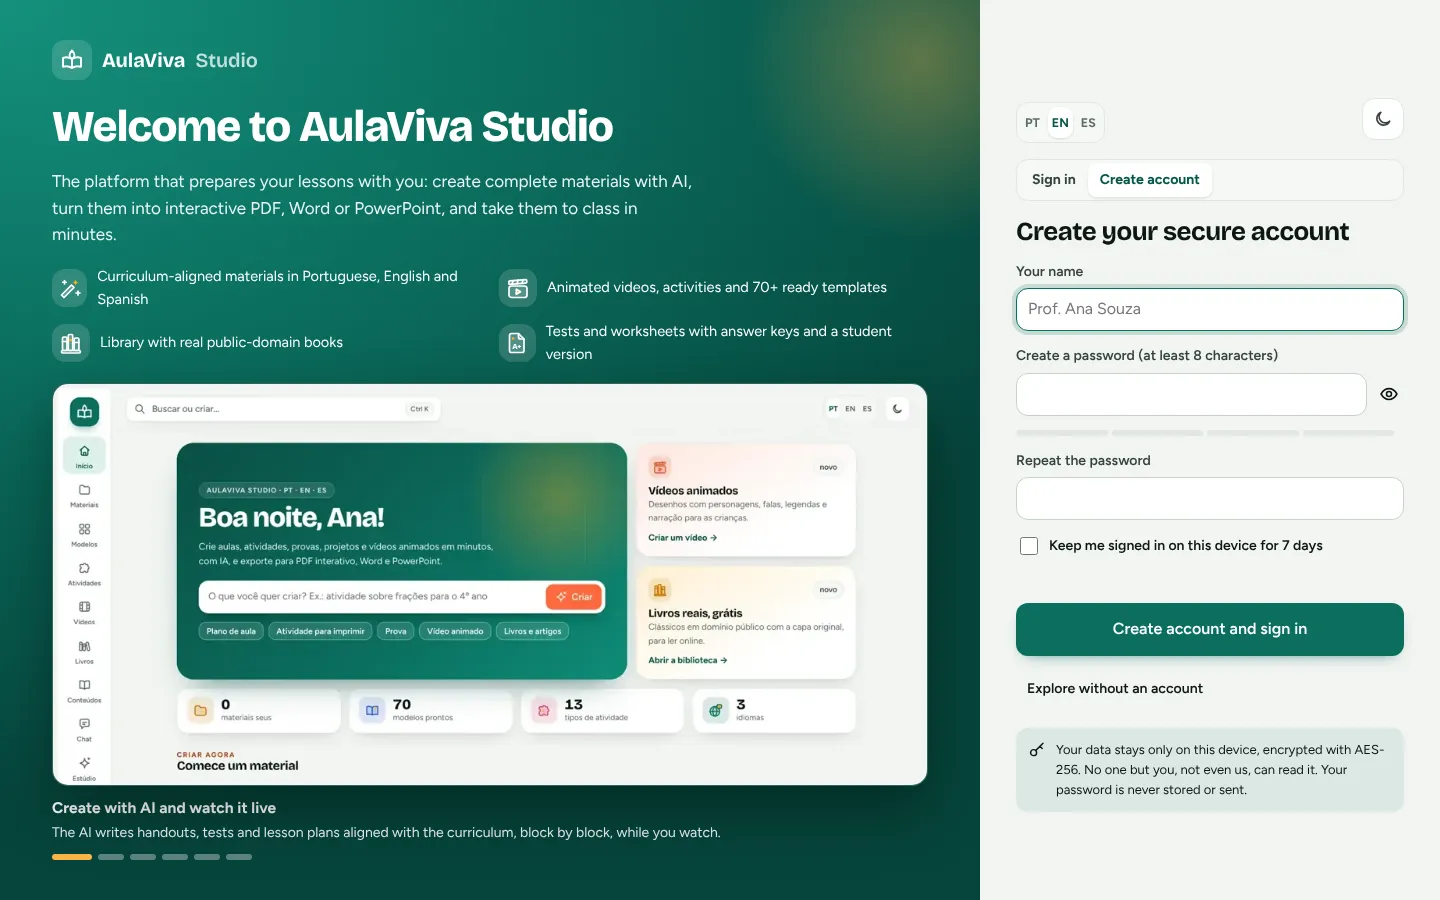
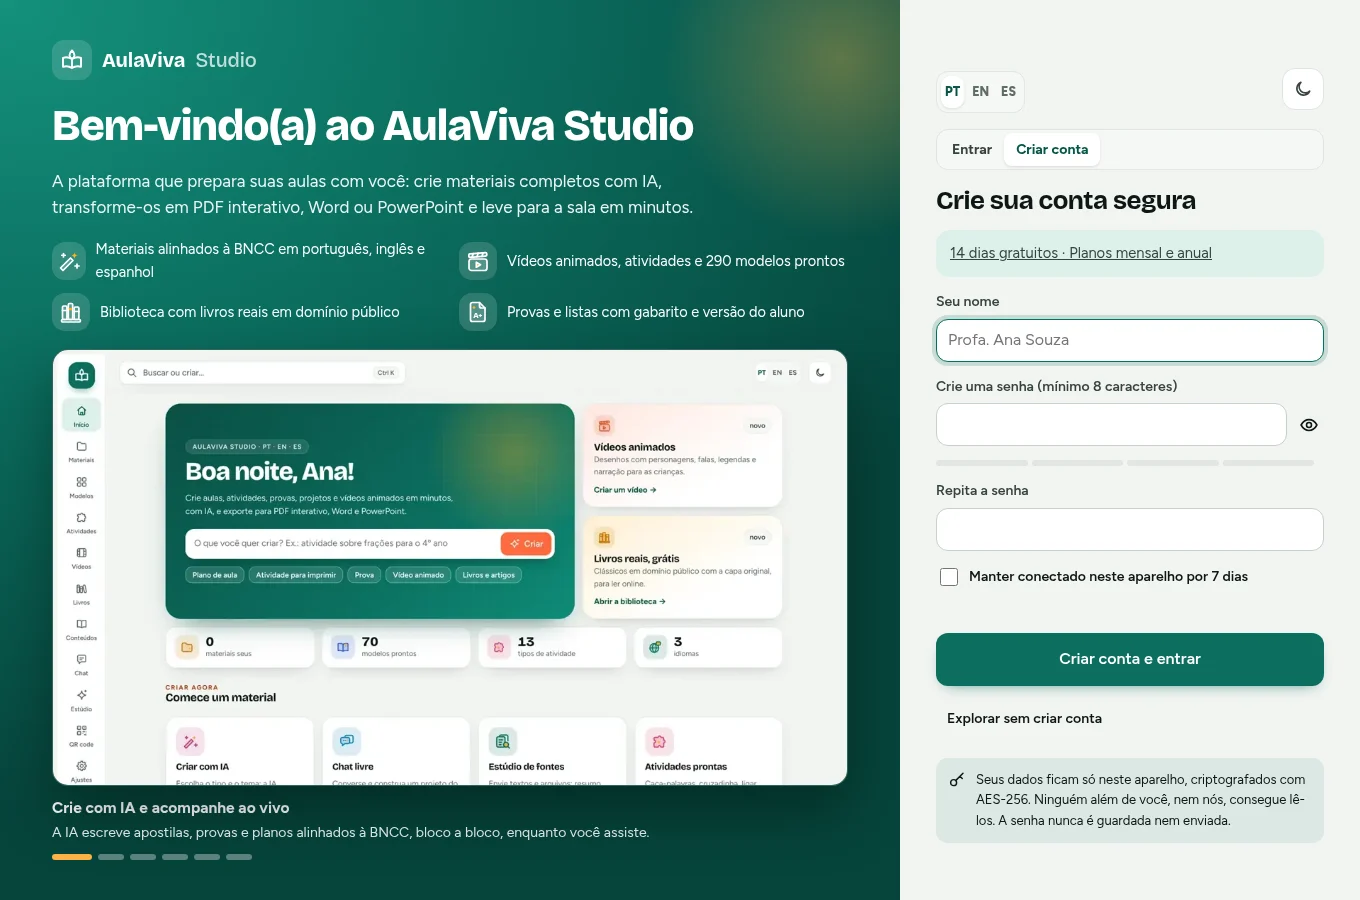
Publica o plano de 14 dias gratuitos com opções mensal e anual

Changed region(s): [[0.0309, 0.0, 0.9882, 1.0], [0.0309, 0.1244, 0.525, 0.1556], [0.0309, 0.0622, 0.1853, 0.0933]]

diff --git a/src/i18n-extra.js b/src/i18n-extra.js
@@ -1,5 +1,7 @@
 (function (AV) {
   AV.DICT = AV.DICT || { en: {}, es: {} };
+  AV.DICT.en["14 dias gratuitos · Planos mensal e anual"] = "14 days free · Monthly and annual plans";
+  AV.DICT.es["14 dias gratuitos · Planos mensal e anual"] = "14 días gratis · Planes mensual y anual";
   Object.assign(AV.DICT.en, {"Aparência": "Appearance", "Papel": "Paper", "Marfim": "Ivory", "Branco": "White", "Sépia": "Sepia", "Noturno": "Night", "Fonte": "Font", "Serifada": "Serif", "Sem serifa": "Sans serif", "Tamanho": "Size", "Marcar página": "Bookmark page", "Grifar trecho": "Highlight selection", "Marcações": "Bookmarks and highlights", "Selecione um trecho do texto para grifar.": "Select a passage to highlight.", "Edição": "Edition", "Página original": "Original page", "Transcrição": "Transcription", "Anterior": "Previous", "Próxima": "Next", "Ir à página": "Go to page", "Nenhuma marcação neste livro.": "No bookmarks or highlights in this book.", "Carregando página…": "Loading page…"});
   Object.assign(AV.DICT.es, {"Aparência": "Apariencia", "Papel": "Papel", "Marfim": "Marfil", "Branco": "Blanco", "Sépia": "Sepia", "Noturno": "Nocturno", "Fonte": "Fuente", "Serifada": "Con serifas", "Sem serifa": "Sin serifas", "Tamanho": "Tamaño", "Marcar página": "Marcar página", "Grifar trecho": "Resaltar selección", "Marcações": "Marcadores y resaltados", "Selecione um trecho do texto para grifar.": "Selecciona un fragmento para resaltarlo.", "Edição": "Edición", "Página original": "Página original", "Transcrição": "Transcripción", "Anterior": "Anterior", "Próxima": "Siguiente", "Ir à página": "Ir a la página", "Nenhuma marcação neste livro.": "Aún no hay marcas en este libro.", "Carregando página…": "Cargando página…"});
   Object.assign(AV.DICT.en, {"Ler na plataforma":"Read here","Carregando livro…":"Loading book…","Não foi possível carregar o livro.":"Could not load the book.","Tentar novamente":"Try again","Escolha um livro para ler aqui na biblioteca.":"Choose a book to read here in the library."});

diff --git a/src/planos.html b/src/planos.html
@@ -1,0 +1,4 @@
+<!doctype html>
+<html lang="pt-BR"><meta charset="utf-8"><meta name="viewport" content="width=device-width,initial-scale=1"><title>Planos · AulaViva Studio</title>
+<style>*{box-sizing:border-box}body{margin:0;background:#f5f3eb;color:#172d28;font:1.1rem/1.6 system-ui,sans-serif}main{max-width:760px;margin:auto;padding:clamp(26px,7vw,80px) 24px}h1{font:600 clamp(2.6rem,8vw,4.7rem)/1.05 Georgia,serif;margin:1em 0 .35em}section{display:grid;grid-template-columns:repeat(auto-fit,minmax(210px,1fr));gap:14px;margin:30px 0}article{padding:20px;background:white;border:1px solid #d4dcd2;border-radius:12px}h2,article p{margin:0}a{color:#175849}a:last-child{font-weight:bold}</style>
+<main><a href="./">AulaViva Studio</a><h1>14 dias gratuitos</h1><p>Experimente a plataforma por 14 dias. Depois desse período, a assinatura poderá ser mensal ou anual.</p><section aria-label="Opções de assinatura"><article><h2>Mensal</h2><p>Um mês de acesso por período.</p></article><article><h2>Anual</h2><p>Um ano de acesso por período.</p></article></section><a href="./">Acessar a plataforma →</a></main></html>

diff --git a/src/views.js b/src/views.js
@@ -46,7 +46,7 @@
       main.appendChild(h("div", { class: "wrap" },
         h("div", { class: "bento" },
         h("section", { class: "hero" },
-          h("div", null, h("div", { class: "eyebrow" }, "AulaViva Studio · PT · EN · ES"), h("h1", null, AV.t(hello()) + (p.name ? ", " + p.name.split(" ")[0] : "") + "!"),
+          h("div", null, h("a", { class: "eyebrow", href: "planos.html" }, AV.t("14 dias gratuitos · Planos mensal e anual")), h("h1", null, AV.t(hello()) + (p.name ? ", " + p.name.split(" ")[0] : "") + "!"),
             h("p", null, "Crie aulas, atividades, provas, projetos e vídeos animados em minutos, com IA, e exporte para PDF interativo, Word e PowerPoint."),
             h("div", { class: "hero-search" }, q, h("button", { class: "btn pri", onclick: go }, AV.icon("sparkle"), "Criar")),
             h("div", { class: "hero-chips" },

diff --git a/src/auth.js b/src/auth.js
@@ -81,6 +81,7 @@
       } else if (mode === "signup") {
         add(form, h("h2", null, AV.t(exists ? "Criar uma nova conta" : "Crie sua conta segura")),
           exists ? h("p", { class: "note" }, AV.t("Já existe uma conta neste aparelho. Criar outra apaga a conta atual e todos os dados dela.")) : null,
+          h("a", { href: "planos.html", class: "note info" }, AV.t("14 dias gratuitos · Planos mensal e anual")),
           field("Seu nome", name), field("Crie uma senha (mínimo 8 caracteres)", pw, eye), h("div", { class: "row", style: { gap: "10px" } }, meter, meterTxt), field("Repita a senha", pw2),
           h("label", { class: "check" }, remember, AV.t("Manter conectado neste aparelho por 7 dias")), msg, submit);
         submit.textContent = AV.t("Criar conta e entrar");

diff --git a/README.md b/README.md
@@ -11,6 +11,12 @@ Para professores da educação básica, em português, inglês e espanhol.
 
 </div>
 
+## Planos de acesso
+
+A distribuição prevê 14 dias gratuitos, seguidos de assinatura mensal ou anual. [Ver planos](https://aulavivastudio.vercel.app/planos.html)
+
+![Planos de acesso](docs/screenshots/planos.webp)
+
 ## Por que usar
 
 - **Tudo em um lugar:** apostilas, listas de exercícios, provas, roteiros com QR code, planos de aula, projetos, atividades para imprimir e vídeos animados.
